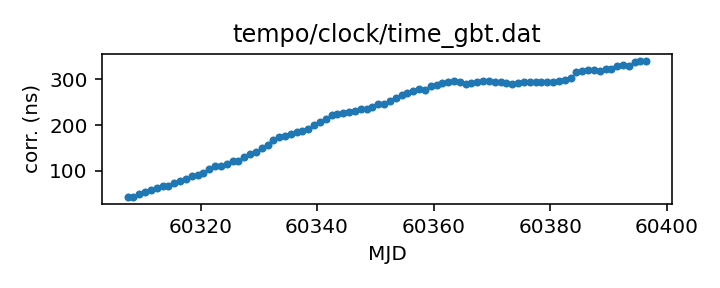
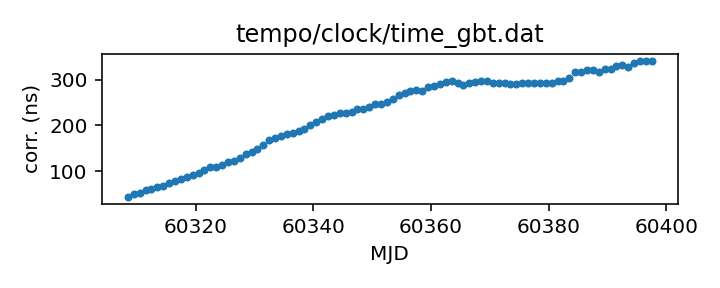
Routine gh-pages update from Github action Fri Mar 29 20:29:47 UTC 2024

diff --git a/status.md b/status.md
@@ -13,17 +13,17 @@ name of each clock file links to a page with more details.
 
 | Name | File | Corrections start | Corrections end | Last check date | Last check result 
 |:--- |:--- | --- | --- | --- |:--- 
-| [GPS to UTC](T2runtime/clock/gps2utc.clk.html) | `T2runtime/clock/gps2utc.clk` | 1993-01-01 MJD 48988.0 | 2024-02-29 MJD 60369.0 | 2024-03-28 | Unchanged 
-| [GPS to UTC (Combined Clock)](T2runtime/clock/gps2utc_cc.clk.html) | `T2runtime/clock/gps2utc_cc.clk` | 1993-01-01 MJD 48988.0 | 2024-02-29 MJD 60369.0 | 2024-03-28 | Unchanged 
-| [GPS to UTC (Corrected)](T2runtime/clock/gps2utc_c0p.clk.html) | `T2runtime/clock/gps2utc_c0p.clk` | 2010-12-29 MJD 55559.0 | 2024-02-29 MJD 60369.0 | 2024-03-28 | Unchanged 
-| [GBT](tempo/clock/time_gbt.dat.html) | `tempo/clock/time_gbt.dat` | 2000-12-31 MJD 51909.5 | 2024-03-27 MJD 60396.5 | 2024-03-28 | Updated 
-| [GBT (TEMPO2 converted from TEMPO)](T2runtime/clock/gbt2gps.clk.html) | `T2runtime/clock/gbt2gps.clk` | 2000-12-31 MJD 51909.5 | 2023-03-20 MJD 60023.5 | 2024-03-28 | **Validation failed** 
+| [GPS to UTC](T2runtime/clock/gps2utc.clk.html) | `T2runtime/clock/gps2utc.clk` | 1993-01-01 MJD 48988.0 | 2024-02-29 MJD 60369.0 | 2024-03-29 | Unchanged 
+| [GPS to UTC (Combined Clock)](T2runtime/clock/gps2utc_cc.clk.html) | `T2runtime/clock/gps2utc_cc.clk` | 1993-01-01 MJD 48988.0 | 2024-02-29 MJD 60369.0 | 2024-03-29 | Unchanged 
+| [GPS to UTC (Corrected)](T2runtime/clock/gps2utc_c0p.clk.html) | `T2runtime/clock/gps2utc_c0p.clk` | 2010-12-29 MJD 55559.0 | 2024-02-29 MJD 60369.0 | 2024-03-29 | Unchanged 
+| [GBT](tempo/clock/time_gbt.dat.html) | `tempo/clock/time_gbt.dat` | 2000-12-31 MJD 51909.5 | 2024-03-28 MJD 60397.5 | 2024-03-29 | Updated 
+| [GBT (TEMPO2 converted from TEMPO)](T2runtime/clock/gbt2gps.clk.html) | `T2runtime/clock/gbt2gps.clk` | 2000-12-31 MJD 51909.5 | 2023-03-20 MJD 60023.5 | 2024-03-29 | **Validation failed** 
 | [Jodrell Bank](T2runtime/clock/jb2gps.clk.html) | `T2runtime/clock/jb2gps.clk` | 2006-10-13 MJD 54021.4 | 2023-12-04 MJD 60282.0 | 2024-03-28 | Unchanged 
 | [Jodrell Bank Roach](T2runtime/clock/jbroach2jb.clk.html) | `T2runtime/clock/jbroach2jb.clk` | 2006-10-13 MJD 54021.4 | 2018-03-20 MJD 58197.6 | 2024-03-28 | Unchanged 
 | [Jodrell Bank DFB](T2runtime/clock/jbdfb2jb.clk.html) | `T2runtime/clock/jbdfb2jb.clk` | 2006-10-13 MJD 54021.4 | 2017-05-11 MJD 57884.0 | 2024-03-28 | Unchanged 
 | [Meerkat (observatory)](T2runtime/clock/mk2utc_observatory.clk.html) | `T2runtime/clock/mk2utc_observatory.clk` | 2019-01-01 MJD 58484.0 | 2024-01-31 MJD 60341.0 | 2024-03-28 | Unchanged 
-| [Leap seconds](tempo/clock/leap.sec.html) | `tempo/clock/leap.sec` | 1972-07-01 MJD 41499.0 | 2017-01-01 MJD 57754.0 | 2024-03-28 | Unchanged 
-| [UT1 table](tempo/clock/ut1.dat.html) | `tempo/clock/ut1.dat` | 1973-01-02 MJD 41684.0 | 2025-04-05 MJD 60770.0 | 2024-03-28 | Updated 
+| [Leap seconds](tempo/clock/leap.sec.html) | `tempo/clock/leap.sec` | 1972-07-01 MJD 41499.0 | 2017-01-01 MJD 57754.0 | 2024-03-29 | Unchanged 
+| [UT1 table](tempo/clock/ut1.dat.html) | `tempo/clock/ut1.dat` | 1973-01-02 MJD 41684.0 | 2025-04-05 MJD 60770.0 | 2024-03-29 | Unchanged 
 
 
 

diff --git a/T2runtime/clock/gbt2gps.clk.md b/T2runtime/clock/gbt2gps.clk.md
@@ -25,12 +25,11 @@ If questions arise about the conversion, contact Anne Archibald
 | Clock file start | 2000-12-31 MJD 51909.5 |
 | Clock file end | 2023-03-20 MJD 60023.5 |
 | Update interval (days) | 1 |
-| Last update attempt | 2024-03-28 |
+| Last update attempt | 2024-03-29 |
 | Last update result | Validation failed |
 
 Log entries from the last few update attempts:
 ```
-2024-03-19 20:29:39.312 - Validation failed: New version of T2runtime/clock/gbt2gps.clk clock corrections differ from old version where they overlap in 11 places
 2024-03-20 20:29:34.113 - Validation failed: New version of T2runtime/clock/gbt2gps.clk clock corrections differ from old version where they overlap in 11 places
 2024-03-21 20:29:38.232 - Validation failed: New version of T2runtime/clock/gbt2gps.clk clock corrections differ from old version where they overlap in 11 places
 2024-03-22 20:29:29.198 - Validation failed: New version of T2runtime/clock/gbt2gps.clk clock corrections differ from old version where they overlap in 11 places
@@ -40,6 +39,7 @@ Log entries from the last few update attempts:
 2024-03-26 20:29:51.293 - Validation failed: New version of T2runtime/clock/gbt2gps.clk clock corrections differ from old version where they overlap in 11 places
 2024-03-27 20:29:23.051 - Validation failed: New version of T2runtime/clock/gbt2gps.clk clock corrections differ from old version where they overlap in 11 places
 2024-03-28 20:29:30.516 - Validation failed: New version of T2runtime/clock/gbt2gps.clk clock corrections differ from old version where they overlap in 11 places
+2024-03-29 20:29:23.285 - Validation failed: New version of T2runtime/clock/gbt2gps.clk clock corrections differ from old version where they overlap in 11 places
 ```
 [Full log](https://raw.githubusercontent.com/ipta/pulsar-clock-corrections/main/log/T2runtime/clock/gbt2gps.clk.log)
 

diff --git a/tempo/clock/time_gbt.dat.md b/tempo/clock/time_gbt.dat.md
@@ -31,14 +31,13 @@ If questions arise, contact Ryan S. Lynch <rlynch@nrao.edu>.
 | Format | tempo |
 | Bogus last correction | False |
 | Clock file start | 2000-12-31 MJD 51909.5 |
-| Clock file end | 2024-03-27 MJD 60396.5 |
+| Clock file end | 2024-03-28 MJD 60397.5 |
 | Update interval (days) | 1 |
-| Last update attempt | 2024-03-28 |
+| Last update attempt | 2024-03-29 |
 | Last update result | Updated |
 
 Log entries from the last few update attempts:
 ```
-2024-03-19 20:29:39.255 - Updated
 2024-03-20 20:29:34.056 - Updated
 2024-03-21 20:29:37.855 - Updated
 2024-03-22 20:29:29.139 - Updated
@@ -48,6 +47,7 @@ Log entries from the last few update attempts:
 2024-03-26 20:29:51.236 - Updated
 2024-03-27 20:29:22.993 - Updated
 2024-03-28 20:29:30.167 - Updated
+2024-03-29 20:29:23.228 - Updated
 ```
 [Full log](https://raw.githubusercontent.com/ipta/pulsar-clock-corrections/main/log/tempo/clock/time_gbt.dat.log)
 

diff --git a/T2runtime/clock/gps2utc_c0p.clk.md b/T2runtime/clock/gps2utc_c0p.clk.md
@@ -30,12 +30,11 @@ about the BIPM's published corrections, contact <tai@bipm.org>.
 | Clock file start | 2010-12-29 MJD 55559.0 |
 | Clock file end | 2024-02-29 MJD 60369.0 |
 | Update interval (days) | 1 |
-| Last update attempt | 2024-03-28 |
+| Last update attempt | 2024-03-29 |
 | Last update result | Unchanged |
 
 Log entries from the last few update attempts:
 ```
-2024-03-19 20:29:38.346 - Unchanged
 2024-03-20 20:29:33.805 - Unchanged
 2024-03-21 20:29:37.328 - Unchanged
 2024-03-22 20:29:28.660 - Unchanged
@@ -45,6 +44,7 @@ Log entries from the last few update attempts:
 2024-03-26 20:29:50.376 - Unchanged
 2024-03-27 20:29:22.500 - Unchanged
 2024-03-28 20:29:29.702 - Unchanged
+2024-03-29 20:29:22.897 - Unchanged
 ```
 [Full log](https://raw.githubusercontent.com/ipta/pulsar-clock-corrections/main/log/T2runtime/clock/gps2utc_c0p.clk.log)
 

diff --git a/T2runtime/clock/gps2utc_cc.clk.md b/T2runtime/clock/gps2utc_cc.clk.md
@@ -29,12 +29,11 @@ about the BIPM's published corrections, contact <tai@bipm.org>.
 | Clock file start | 1993-01-01 MJD 48988.0 |
 | Clock file end | 2024-02-29 MJD 60369.0 |
 | Update interval (days) | 1 |
-| Last update attempt | 2024-03-28 |
+| Last update attempt | 2024-03-29 |
 | Last update result | Unchanged |
 
 Log entries from the last few update attempts:
 ```
-2024-03-19 20:29:38.337 - Unchanged
 2024-03-20 20:29:33.796 - Unchanged
 2024-03-21 20:29:37.319 - Unchanged
 2024-03-22 20:29:28.651 - Unchanged
@@ -44,6 +43,7 @@ Log entries from the last few update attempts:
 2024-03-26 20:29:50.367 - Unchanged
 2024-03-27 20:29:22.491 - Unchanged
 2024-03-28 20:29:29.693 - Unchanged
+2024-03-29 20:29:22.888 - Unchanged
 ```
 [Full log](https://raw.githubusercontent.com/ipta/pulsar-clock-corrections/main/log/T2runtime/clock/gps2utc_cc.clk.log)
 

diff --git a/T2runtime/clock/gps2utc.clk.md b/T2runtime/clock/gps2utc.clk.md
@@ -32,12 +32,11 @@ about the BIPM's published corrections, contact <tai@bipm.org>.
 | Clock file start | 1993-01-01 MJD 48988.0 |
 | Clock file end | 2024-02-29 MJD 60369.0 |
 | Update interval (days) | 1 |
-| Last update attempt | 2024-03-28 |
+| Last update attempt | 2024-03-29 |
 | Last update result | Unchanged |
 
 Log entries from the last few update attempts:
 ```
-2024-03-19 20:29:38.312 - Unchanged
 2024-03-20 20:29:33.771 - Unchanged
 2024-03-21 20:29:37.293 - Unchanged
 2024-03-22 20:29:28.626 - Unchanged
@@ -47,6 +46,7 @@ Log entries from the last few update attempts:
 2024-03-26 20:29:50.342 - Unchanged
 2024-03-27 20:29:22.466 - Unchanged
 2024-03-28 20:29:29.668 - Unchanged
+2024-03-29 20:29:22.863 - Unchanged
 ```
 [Full log](https://raw.githubusercontent.com/ipta/pulsar-clock-corrections/main/log/T2runtime/clock/gps2utc.clk.log)
 

diff --git a/tempo/clock/ut1.dat.md b/tempo/clock/ut1.dat.md
@@ -30,12 +30,11 @@ If there are any questions, contact Anne Archibald
 | File start | 1973-01-02 MJD 41684.0 |
 | File end | 2025-04-05 MJD 60770.0 |
 | Update interval (days) | 0 |
-| Last update attempt | 2024-03-28 |
-| Last update result | Updated |
+| Last update attempt | 2024-03-29 |
+| Last update result | Unchanged |
 
 Log entries from the last few update attempts:
 ```
-2024-03-19 20:29:51.149 - Unchanged
 2024-03-20 20:29:43.606 - Unchanged
 2024-03-21 20:30:02.563 - Updated
 2024-03-22 20:29:36.972 - Unchanged
@@ -45,5 +44,6 @@ Log entries from the last few update attempts:
 2024-03-26 20:30:02.590 - Unchanged
 2024-03-27 20:29:31.201 - Unchanged
 2024-03-28 20:30:01.490 - Updated
+2024-03-29 20:29:32.208 - Unchanged
 ```
 [Full log](https://raw.githubusercontent.com/ipta/pulsar-clock-corrections/main/log/tempo/clock/ut1.dat.log)

diff --git a/tempo/clock/leap.sec.md b/tempo/clock/leap.sec.md
@@ -21,12 +21,11 @@ If there are any questions, contact Anne Archibald
 | File start | 1972-07-01 MJD 41499.0 |
 | File end | 2017-01-01 MJD 57754.0 |
 | Update interval (days) | 0 |
-| Last update attempt | 2024-03-28 |
+| Last update attempt | 2024-03-29 |
 | Last update result | Unchanged |
 
 Log entries from the last few update attempts:
 ```
-2024-03-19 20:29:39.340 - Unchanged
 2024-03-20 20:29:34.453 - Unchanged
 2024-03-21 20:29:53.480 - Unchanged
 2024-03-22 20:29:29.227 - Unchanged
@@ -36,5 +35,6 @@ Log entries from the last few update attempts:
 2024-03-26 20:29:51.321 - Unchanged
 2024-03-27 20:29:23.512 - Unchanged
 2024-03-28 20:29:51.708 - Unchanged
+2024-03-29 20:29:23.315 - Unchanged
 ```
 [Full log](https://raw.githubusercontent.com/ipta/pulsar-clock-corrections/main/log/tempo/clock/leap.sec.log)
